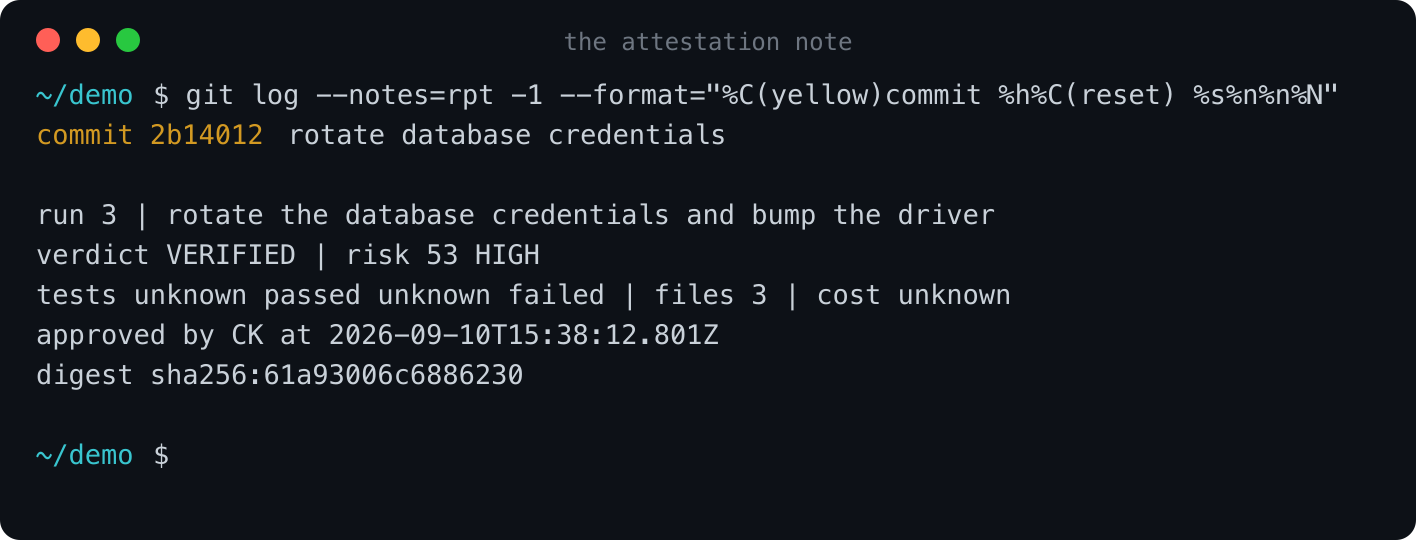
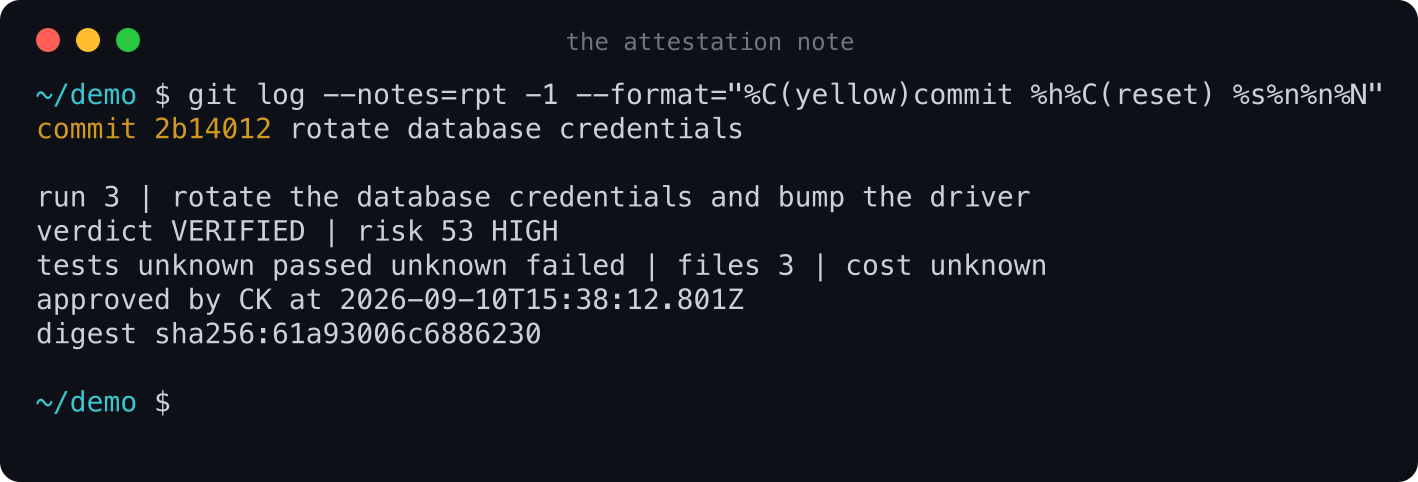
docs: fix the screenshot rendering and tighten the README copy
The panel borders in the screenshots rendered as dashed lines. Two causes, both
in the renderer rather than in rpt: every coloured run was pinned to a computed
character grid, so long runs drifted from the font's real advance width, and the
line height was 1.48x the font size, which leaves box-drawing glyphs unable to
reach the row above. Lines now flow at the font's own metrics at terminal
proportions, and the borders are solid.

Two copy changes worth naming. "It never takes the agent's word for anything"
was not true: the agent's claims do one job, which is exposing the files it
changed and did not mention, and saying so is both accurate and more
interesting than the absolute was. "The number is never a black box" was a
slogan sitting next to the sentence that already stated the fact, so it is gone.

Claude-Session: https://claude.ai/code/session_012DDzy6tHxxFMrSfDt7UAPK

diff --git a/README.md b/README.md
@@ -1,48 +1,47 @@
 # rpt
 
-**An AI coding agent grades its own homework. rpt is the second opinion.**
+**Your AI agent reports its own results. rpt checks them.**
 
-An agent says "I fixed the bug, 184 tests pass, 7 files changed." That sentence
-is produced by the same system that made the change. Nothing outside the agent
-confirms any of it.
+"I fixed the bug, 184 tests pass, 7 files changed." That sentence was written by
+the same system that made the change. Nothing outside the agent confirms it.
 
-rpt watches a Claude Code session from the outside, re-derives the facts itself
-by asking git and by running your tests, scores how risky the change is, and
-stops the commit when a human should look. Then it staples the verdict to the
-commit as a git note, so the record travels with the code.
+rpt watches a Claude Code session from the outside. It asks git what actually
+changed, runs your test suite itself, scores the risk, and stops the commit when
+a person should look. The verdict is attached to the commit as a git note, so it
+travels with the code.
 
-It never takes the agent's word for anything. Claims and observations are kept
-apart on purpose.
+What the agent claims is recorded but never trusted. The claims have exactly one
+job: revealing the files the agent changed and did not mention.
 
 ---
 
 ## It stops a commit that needs you
 
-Your normal `git commit`. No new command to remember.
+This is `git commit`. There is no new command to run.
 
-![The commit gate refusing a commit](docs/media/gate.png)
+![rpt refusing a commit that needs human approval](docs/media/gate.png)
 
 ## It shows its work
 
-Every rule that moved the score, with its weight. The number is never a black box.
+Every rule that moved the score, and by how much.
 
-![The itemised risk breakdown](docs/media/risk.png)
+![The itemised risk breakdown, showing each rule and its weight](docs/media/risk.png)
 
 ## It leaves a receipt on the commit
 
-Attached as a git note, reviewable in a pull request. It says plainly whether a
-human approved, whether the gate was bypassed, or whether nobody was needed.
+A git note, reviewable in a pull request. It records whether a person approved,
+whether the gate was bypassed, or whether nobody was needed.
 
-![The attestation note on a commit](docs/media/receipt.png)
+![The attestation note attached to a commit](docs/media/receipt.png)
 
 ## It gives you a console
 
-Run `rpt` on a terminal. Arrow keys, Enter to open, then `v` events, `d` diff,
-`t` tests, `r` risk, `a` approve.
+`rpt` on a terminal. Enter opens a run, then `v` events, `d` diff, `t` tests,
+`r` risk, `a` approve.
 
-![The rpt dashboard](docs/media/dashboard.png)
+![The rpt dashboard listing runs with state, risk and cost](docs/media/dashboard.png)
 
-![Run detail](docs/media/run-detail.png)
+![Run detail, showing duration, cost, files, tests and every check](docs/media/run-detail.png)
 
 ---
 
@@ -63,7 +62,7 @@ rpt init
 ```
 
 Open `rpt.config.json` and give it your test command. This is the setting that
-decides whether rpt can tell you anything:
+decides how much rpt can tell you:
 
 ```json
 {
@@ -72,8 +71,8 @@ decides whether rpt can tell you anything:
 }
 ```
 
-Now work with Claude Code exactly as before. rpt records the session, verifies
-it when you commit, and stays out of the way unless something needs you.
+Now use Claude Code as you did before. rpt records the session, verifies it when
+you commit, and stays quiet unless something needs you.
 
 ```bash
 rpt                  # the console
@@ -87,9 +86,9 @@ git log --notes=rpt  # the receipts
 
 ## Two things to know up front
 
-**A skip is not a pass.** If a check could not run, rpt does not know, and not
-knowing means you decide. With no `coverageCommand` the coverage check skips and
-every commit will ask for you. Give it one, or set
+**A skip is not a pass.** A check that could not run means rpt does not know,
+and not knowing sends the decision to you. Without a `coverageCommand` the
+coverage check skips and every commit will ask for approval. Set one, or set
 `"verifiers": { "testQuality": "off" }` to drop that check from the verdict.
 
 **The agent cannot clear itself.** `rpt approve` refuses inside a Claude Code
@@ -103,8 +102,8 @@ verdict and the risk level. The slash command plugin exposes reads only.
 | 51-80 | HIGH | needs your approval |
 | 81-100 | CRITICAL | blocked, no approval path |
 
-`RPT_BYPASS=1 git commit` skips the gate for everything except CRITICAL, and the
-receipt on that commit says `BYPASSED`.
+`RPT_BYPASS=1 git commit` skips the gate for everything except CRITICAL. The
+receipt on that commit then reads `BYPASSED`.
 
 ## More
 
